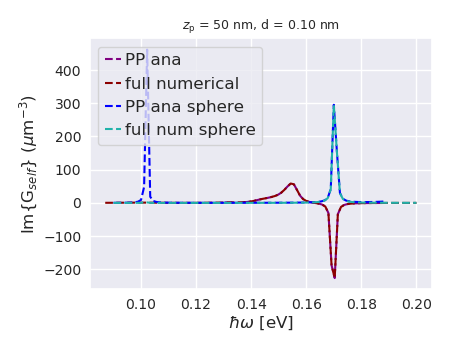
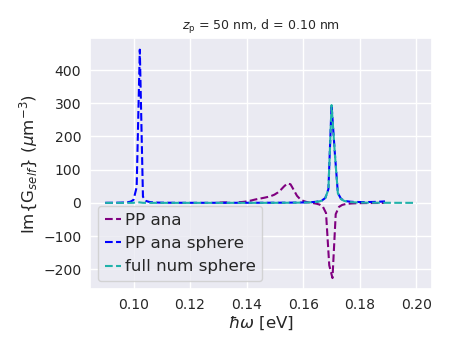
update from icfo dell

diff --git a/hBn/potential_field/potential_and_electric_field_with_dipole_moment_formula/plot_green_self_image.py b/hBn/potential_field/potential_and_electric_field_with_dipole_moment_formula/plot_green_self_image.py
@@ -226,7 +226,7 @@ for value in listx:
 #%%
 graph(title,labelx,r'Re{G$_{self}$} ($\mu$m)$^{-3}$',tamfig,tamtitle,tamletra,tamnum,labelpadx,labelpady,pad)
 #plt.plot(listx,listy_re_ana3,'.',ms = ms,color = 'blue',label = 'PP analytical 3')
-#plt.plot(listx,listy_re_ana,'.',ms = ms,color = 'purple',label = 'PP analytical')
+plt.plot(listx[0:-2],listy_re_ana[0:-2],'.',ms = ms,color = 'purple',label = 'PP analytical')
 plt.plot(listx,listy_re_ana2,'.',ms = ms+1,color = 'darkorange',label = 'PP analytical 2')
 plt.plot(listx,listy_re_num,'.',ms = ms,color = 'lightseagreen',label = 'full numerical')
 plt.plot(listx,listy_re_pole_aprox,'.-',ms = 3,color = 'darkred',label = 'PP numerical')
@@ -239,7 +239,7 @@ plt.savefig( 'Re_Gself' + label1 + '.png', format='png')
 
 graph(title,labelx,r'Im{G$_{self}$} ($\mu$m)$^{-3}$',tamfig,tamtitle,tamletra,tamnum,labelpadx,labelpady,pad)
 #plt.plot(listx,listy_im_ana,'.',ms = ms,color = 'blue',label = 'PP analytical 3')
-#plt.plot(listx,listy_im_ana,'.',ms = ms,color = 'purple',label = 'PP analytical')
+plt.plot(listx[0:-2],listy_im_ana[0:-2],'.',ms = ms,color = 'purple',label = 'PP analytical')
 plt.plot(listx,listy_im_ana2,'.',ms = ms+1,color = 'darkorange',label = 'PP analytical 2')
 plt.plot(listx,listy_im_num,'.',ms = ms,color = 'lightseagreen',label = 'full numerical')
 plt.plot(listx,listy_im_pole_aprox,'.-',ms = 3,color = 'darkred',label = 'PP numerical')

diff --git a/Silver/potential_field/potential_and_electric_field/potential_and_electric_field_with_dipole_moment_formula/plot_green_self_image.py b/Silver/potential_field/potential_and_electric_field/potential_and_electric_field_with_dipole_moment_formula/plot_green_self_image.py
@@ -54,22 +54,22 @@ print('Definir parametros del problema')
 #v = c/int_v
 #omega = 0.7*1e12
 epsi1,epsi3 = 1,1
-d_nano = 1
+d_nano = 0.1
 
 if plot_vs_E == 1:
     zp0_nano = 0.25*1e3
     listx = np.linspace(0.001,3.5,100)
-    title = r'$z_p$ = %inm, d = %i nm' %(zp0_nano,d_nano)
+    title = r'$z_p$ = %inm, d = %.2f nm' %(zp0_nano,d_nano)
     labelx = r'$\hbar\omega$ [eV]'   
-    label1 = '_vs_E_d%inm' %(d_nano) 
+    label1 = '_vs_E_d%.2fnm' %(d_nano) 
 
 
 elif plot_vs_zp == 1:
     E0 = 3
     listx = np.linspace(10,400,100)
-    title = r'$\hbar\omega$ = %i eV, d = %i nm' %(E0,d_nano)
+    title = r'$\hbar\omega$ = %i eV, d = %.2f nm' %(E0,d_nano)
     labelx = r'$z_p$ [nm]'   
-    label1 = '_vs_zp_d%inm' %(d_nano) 
+    label1 = '_vs_zp_d%.2fnm' %(d_nano) 
 
 
 N = 100
